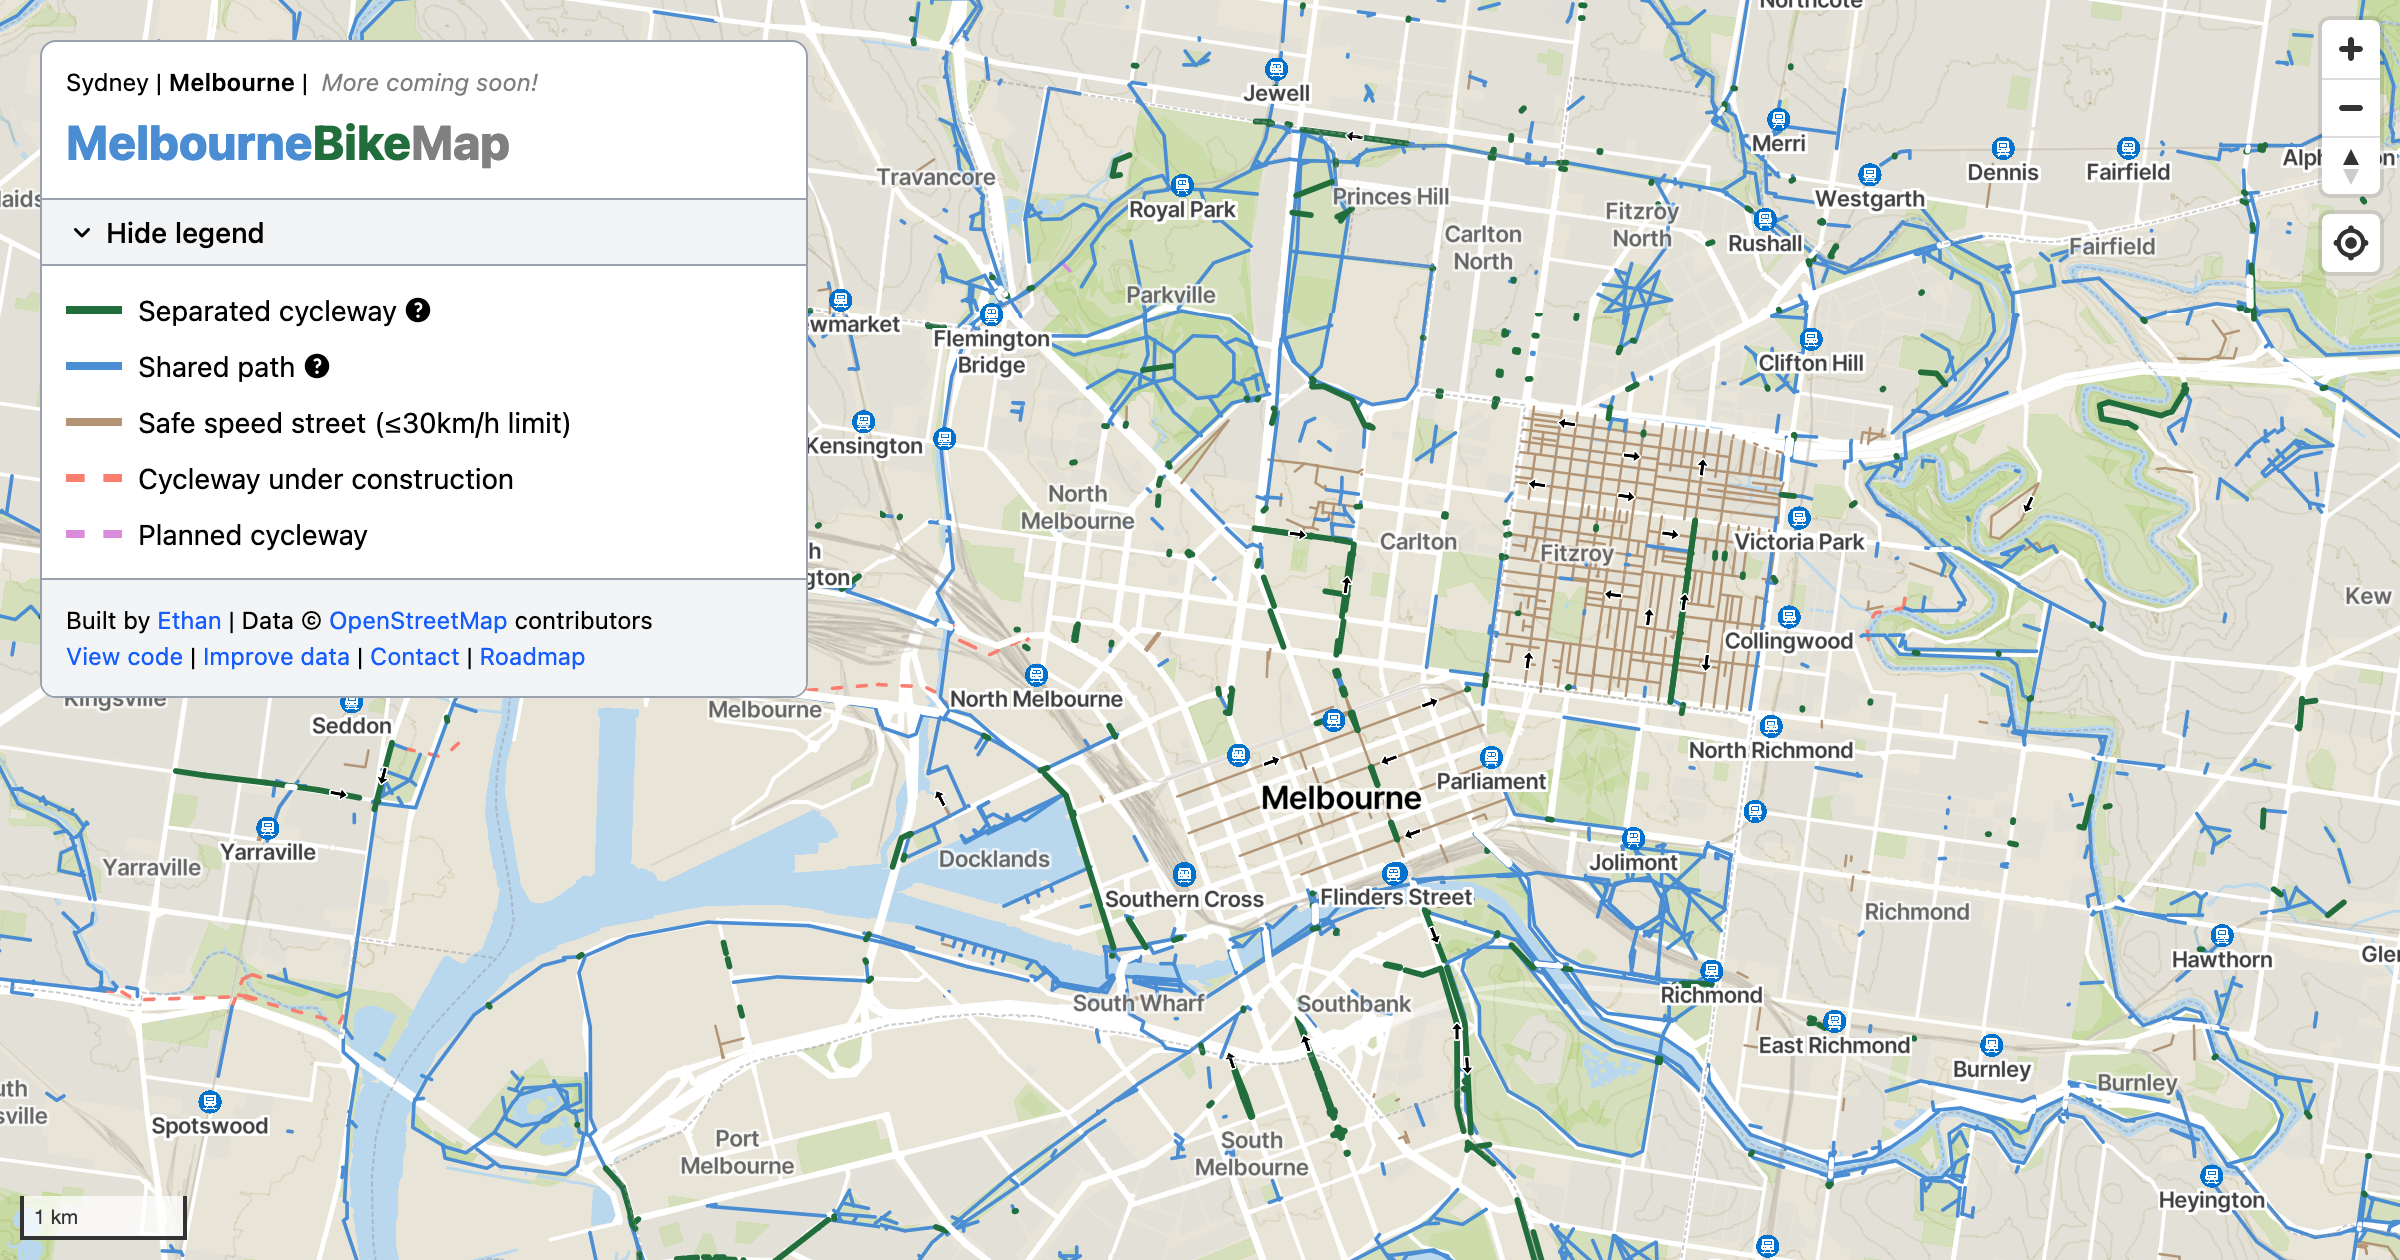
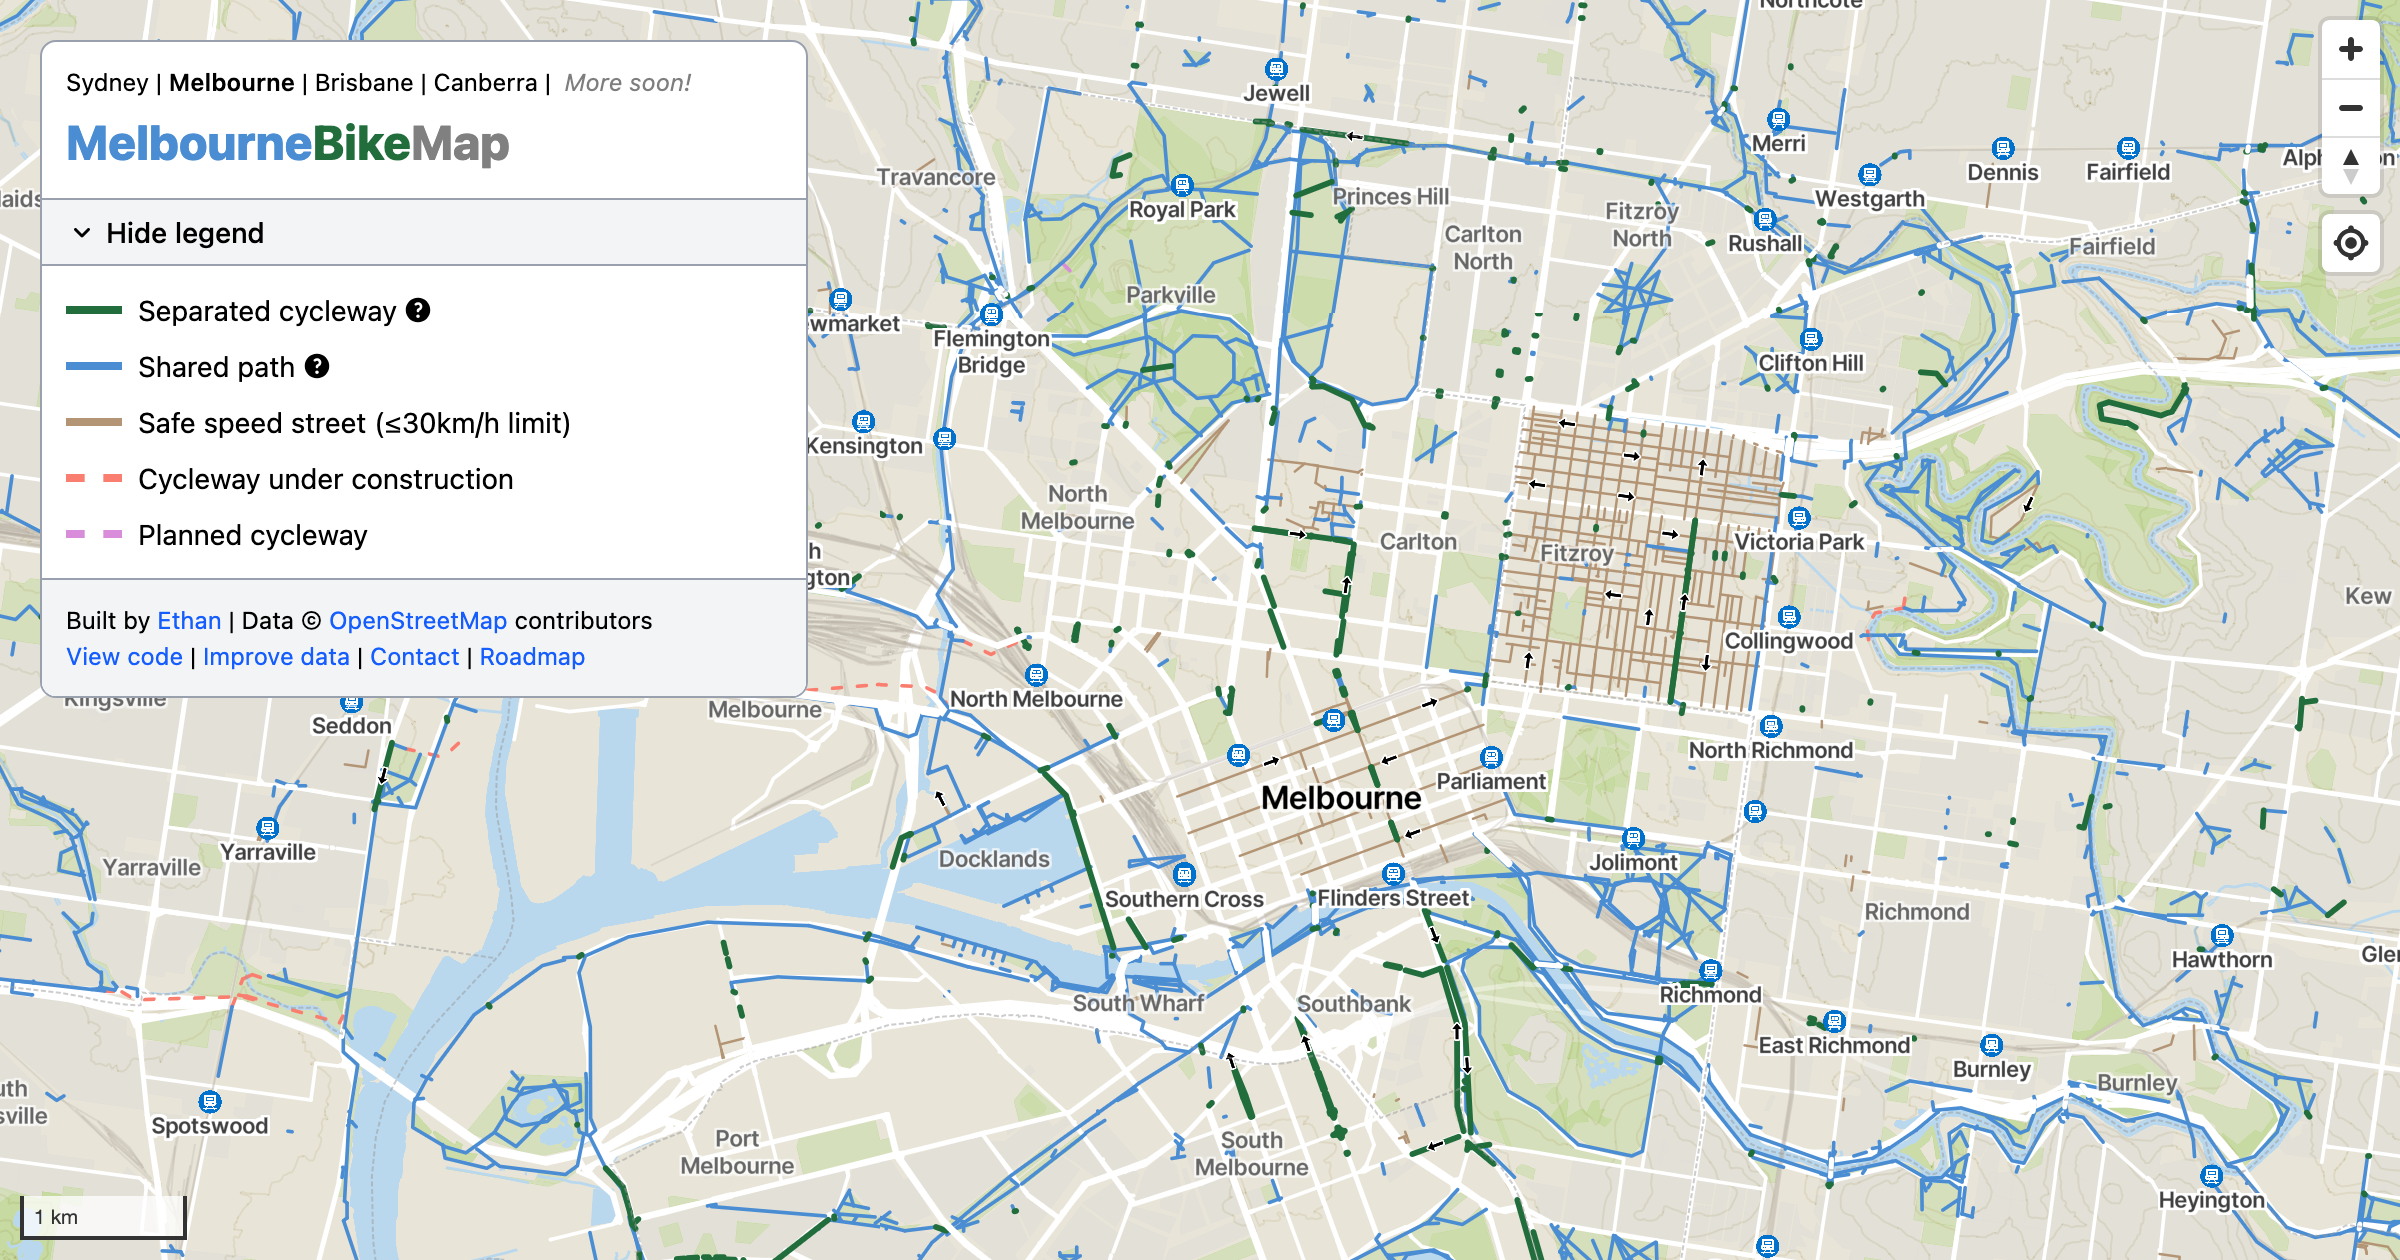
Add Canberra (released) and Brisbane (commented out, pending contours)

diff --git a/frontend/src/lib/regions.ts b/frontend/src/lib/regions.ts
@@ -43,4 +43,32 @@ export const REGIONS: RegionConfig[] = [
       ogImage: "https://bikemap.carto.au/og-image-melbourne.png",
     },
   },
+  // {
+  //   id: "brisbane",
+  //   name: "Brisbane",
+  //   startCoord: [153.0085, -27.4631],
+  //   maxBounds: [151.4940, -28.4828, 154.5678, -26.2241],
+  //   startZoom: 10.5,
+  //   headTags: {
+  //     title: "Brisbane Bike Map — Map of cycle paths in Brisbane",
+  //     description:
+  //       "🚲 Your guide to Brisbane’s cycle network — See safe routes to ride in Brisbane including separated cycleways, shared paths, cycleways under construction, planned cycleways and more.",
+  //     ogSiteName: "BrisbaneBikeMap",
+  //     ogImage: "https://bikemap.carto.au/og-image-brisbane.png",
+  //   },
+  // },
+  {
+    id: "canberra",
+    name: "Canberra",
+    startCoord: [149.0828, -35.2961],
+    maxBounds: [148.2625, -36.1672, 149.8707, -34.6724],
+    startZoom: 10.5,
+    headTags: {
+      title: "Canberra Bike Map — Map of cycle paths in Canberra",
+      description:
+        "🚲 Your guide to Canberra’s cycle network — See safe routes to ride in Canberra including separated cycleways, shared paths, cycleways under construction, planned cycleways and more.",
+      ogSiteName: "CanberraBikeMap",
+      ogImage: "https://bikemap.carto.au/og-image-canberra.png",
+    },
+  },
 ];

diff --git a/frontend/src/lib/LegendInfoModal.svelte b/frontend/src/lib/LegendInfoModal.svelte
@@ -28,9 +28,23 @@
       <h3 class="font-bold">Shared paths</h3>
 
       <p>
-        Shared paths are walkways, areas, or footpaths that allow both bikes and
-        pedestrians. They can be marked with a blue line, white centre line,
-        pedestrian/bike symbols, or a sign.
+        Shared paths are walkways, areas, or footpaths that are specifically
+        designated for both bikes and pedestrians. They can be marked with a
+        blue line, white centre line, pedestrian/bike symbols, or a sign.
+      </p>
+
+      <p>
+        NOTE: In most states, it&rsquo;s legal to ride on any footpath, even if
+        it&rsquo;s not a shared path. However, it&rsquo;s restricted in NSW &
+        VIC. See <a
+          href="https://www.nsw.gov.au/driving-boating-and-transport/roads-safety-and-rules/bicycle-safety-and-rules/riding-bikes-near-pedestrians"
+          target="_blank">NSW footpath riding laws</a
+        >
+        and
+        <a
+          href="https://transport.vic.gov.au/road-and-active-transport/active-transport/bicycles/bike-riders-and-sharing-the-road"
+          target="_blank">VIC footpath riding laws</a
+        >.
       </p>
 
       <enhanced:img

diff --git a/frontend/src/lib/Map.svelte b/frontend/src/lib/Map.svelte
@@ -50,6 +50,7 @@
       center: regionConfig.startCoord,
       zoom: regionConfig.startZoom,
       maxBounds: regionConfig.maxBounds,
+      minZoom: 5,
       maxZoom: 20,
       // customAttribution:
       //   "&copy; SydneyBikeMap &copy; <a href='https://www.openstreetmap.org/copyright'>OpenStreetMap</a> contributors",

diff --git a/frontend/src/lib/Infobox.svelte b/frontend/src/lib/Infobox.svelte
@@ -25,7 +25,7 @@
             )}>{region.name}</a
           > |&nbsp;
         {/each}
-        <span class="italic opacity-50">More coming soon!</span>
+        <span class="italic opacity-50">More soon!</span>
       </div>
       <Logo regionName={regionConfig.name} />
     </div>

diff --git a/frontend/static/og-image.md b/frontend/static/og-image.md
@@ -3,3 +3,5 @@ Steps to reproduce:
 2. Expand legend
 3. For Sydney: Go to path /sydney#map=12.33/-33.88677/151.18527 & take screenshot
 4. For Melbourne: Go to path /melbourne#map=12.33/-37.80516/144.95351 & take screenshot
+4. For Brisbane: Go to path /brisbane#map=12.33/-27.46489/153.01584 & take screenshot
+4. For Canberra: Go to path /canberra#map=12.33/-35.28881/149.10006 & take screenshot
